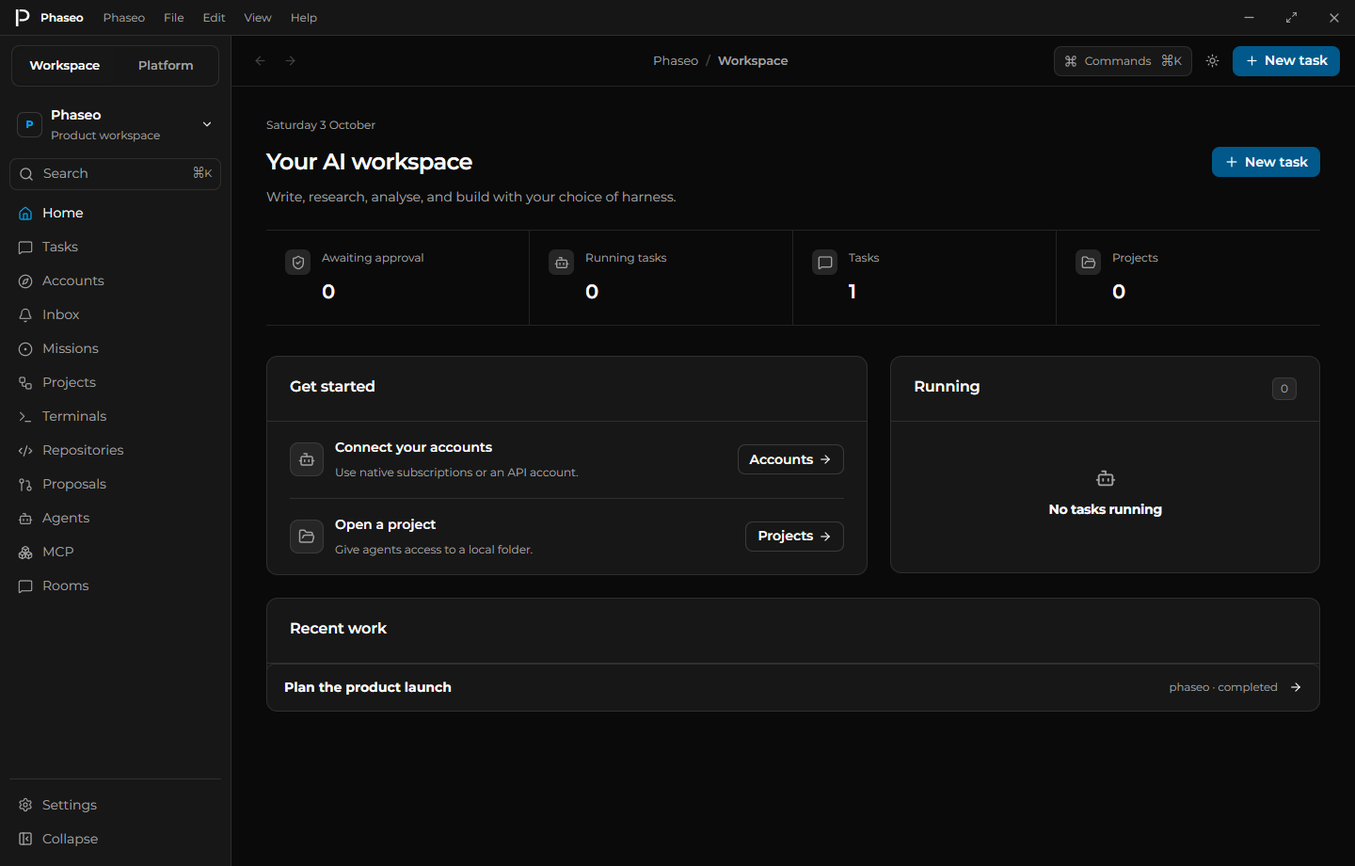
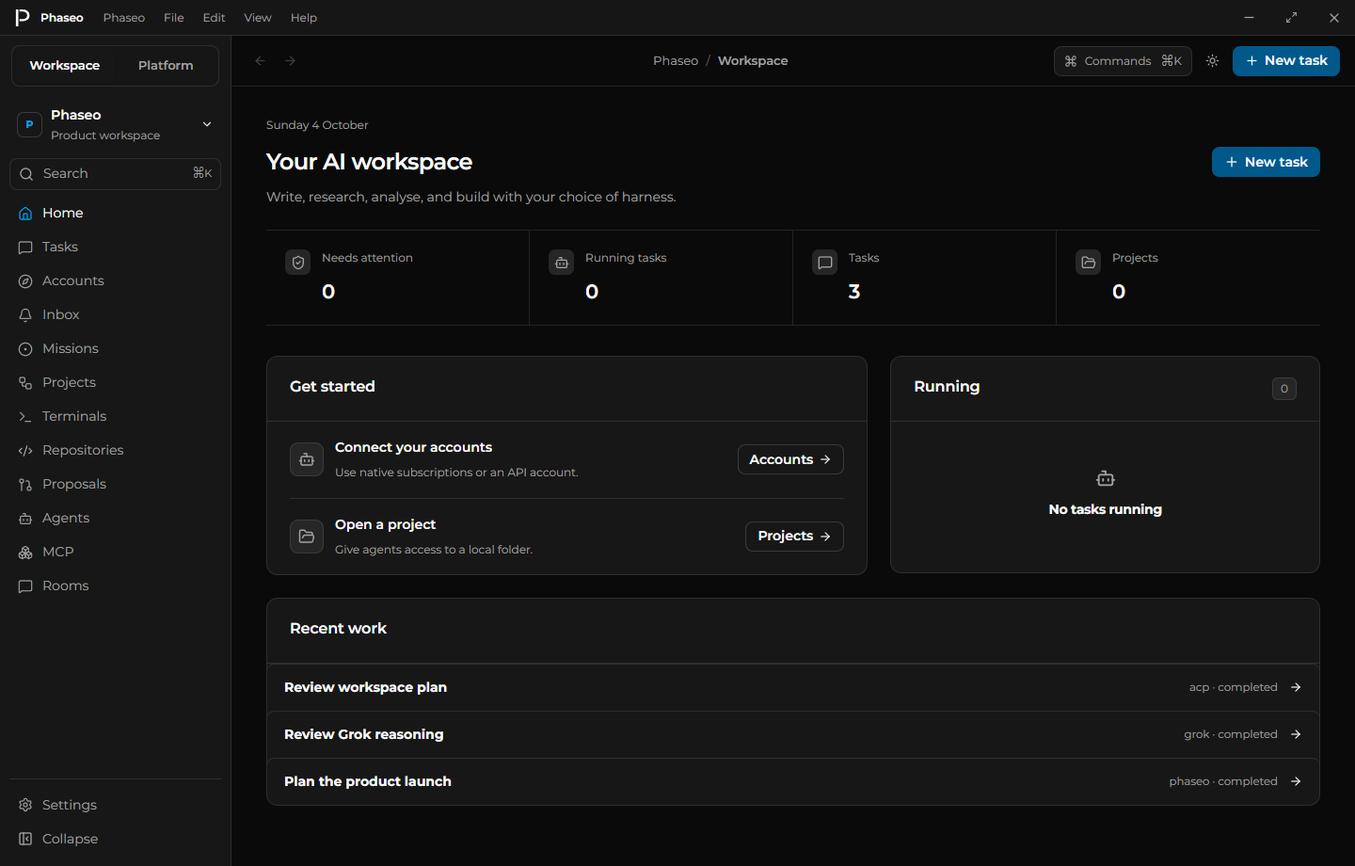
refactor(desktop): add workspace metadata snapshots

diff --git a/apps/desktop/src/renderer/views/WorkspaceHome.tsx b/apps/desktop/src/renderer/views/WorkspaceHome.tsx
@@ -1,30 +1,29 @@
 import { useEffect, useState } from "react";
 import { ArrowRight, Bot, FolderOpen, MessageSquare, Plus, ShieldCheck } from "lucide-react";
 import type { LucideIcon } from "lucide-react";
-import type { Workspace } from "../../shared/workspace";
-import { emptyWorkspace } from "../../shared/workspace";
+import { emptyOverview, type WorkspaceOverview } from "../../shared/workspaceOverview";
 
 export function WorkspaceHome({ onNavigate }: { onNavigate: (page: string, taskId?: string) => void }) {
-	const [workspace, setWorkspace] = useState<Workspace>(emptyWorkspace);
+	const [workspace, setWorkspace] = useState<WorkspaceOverview>(emptyOverview);
 	const [error, setError] = useState("");
 	const api = window.phaseoDesktop?.workspace;
 	useEffect(() => {
 		if (!api) return;
 		let active = true;
-		void api.get().then(value => { if (active) setWorkspace(value); }, reason => { if (active) setError(String(reason)); });
-		const unsubscribe = api.onChange(setWorkspace);
+		void api.overview().then(value => { if (active) setWorkspace(value); }, reason => { if (active) setError(String(reason)); });
+		const unsubscribe = api.onOverviewChange(setWorkspace);
 		return () => { active = false; unsubscribe(); };
 	}, [api]);
 	const tasks = workspace.tasks.filter(task => !task.archived);
-	const waiting = tasks.filter(task => task.status === "waiting");
+	const waiting = tasks.filter(task => task.attentionReason && task.attentionReason !== "Task completed");
 	const running = tasks.filter(task => task.status === "running");
 	return <div className="page workspace-home">
 		<section className="page-heading"><div><p className="eyebrow">{new Intl.DateTimeFormat(undefined, { weekday: "long", day: "numeric", month: "long" }).format(new Date())}</p><h1>Your AI workspace</h1><p>Write, research, analyse, and build with your choice of harness.</p></div><button className="primary-button" type="button" onClick={() => onNavigate("tasks")}><Plus size={16} /> New task</button></section>
 		{error && <p className="task-error" role="alert">{error}</p>}
-		<section className="metric-grid" aria-label="Workspace summary"><MetricCard icon={ShieldCheck} label="Awaiting approval" value={waiting.length} /><MetricCard icon={Bot} label="Running tasks" value={running.length} /><MetricCard icon={MessageSquare} label="Tasks" value={tasks.length} /><MetricCard icon={FolderOpen} label="Projects" value={workspace.projects.filter(project => !project.worktree?.removedAt).length} /></section>
+		<section className="metric-grid" aria-label="Workspace summary"><MetricCard icon={ShieldCheck} label="Needs attention" value={waiting.length} /><MetricCard icon={Bot} label="Running tasks" value={running.length} /><MetricCard icon={MessageSquare} label="Tasks" value={tasks.length} /><MetricCard icon={FolderOpen} label="Projects" value={workspace.projects.filter(project => !project.worktree?.removedAt).length} /></section>
 		<div className="workspace-grid">
 			<section className="panel attention-panel"><div className="panel-heading"><h2>{waiting.length ? "Needs your attention" : "Get started"}</h2></div><div className="attention-list">
-				{waiting.length ? waiting.map(task => <article className="attention-item" key={task.id}><div className="attention-icon"><ShieldCheck size={18} /></div><div><h3>{task.title}</h3><p>{task.questions?.length ? "Answer needed" : task.approvals?.[0]?.method}</p></div><button className="secondary-button" type="button" onClick={() => onNavigate("tasks", task.id)}>Review <ArrowRight size={14} /></button></article>) : <>
+				{waiting.length ? waiting.map(task => <article className="attention-item" key={task.id}><div className="attention-icon"><ShieldCheck size={18} /></div><div><h3>{task.title}</h3><p>{task.attentionReason}</p></div><button className="secondary-button" type="button" onClick={() => onNavigate("tasks", task.id)}>Review <ArrowRight size={14} /></button></article>) : <>
 					<article className="attention-item"><div className="attention-icon"><Bot size={18} /></div><div><h3>Connect your accounts</h3><p>Use native subscriptions or an API account.</p></div><button className="secondary-button" type="button" onClick={() => onNavigate("accounts")}>Accounts <ArrowRight size={14} /></button></article>
 					<article className="attention-item"><div className="attention-icon"><FolderOpen size={18} /></div><div><h3>Open a project</h3><p>Give agents access to a local folder.</p></div><button className="secondary-button" type="button" onClick={() => onNavigate("projects")}>Projects <ArrowRight size={14} /></button></article>
 				</>}

diff --git a/apps/desktop/src/renderer/views/Inbox.tsx b/apps/desktop/src/renderer/views/Inbox.tsx
@@ -1,24 +1,23 @@
 import { useEffect, useState } from "react";
 import { ArrowRight, Bell } from "lucide-react";
-import { emptyWorkspace } from "../../shared/workspace";
-import { inboxReason, needsAttention } from "../../shared/inbox";
+import { emptyOverview } from "../../shared/workspaceOverview";
 
 export function Inbox({ onOpenTask }: { onOpenTask: (id: string) => void }) {
-	const [workspace, setWorkspace] = useState(emptyWorkspace);
+	const [workspace, setWorkspace] = useState(emptyOverview);
 	const [filter, setFilter] = useState("attention");
 	const [error, setError] = useState("");
 	const api = window.phaseoDesktop?.workspace;
 	useEffect(() => {
 		if (!api) return;
 		let active = true;
-		void api.get().then(value => { if (active) setWorkspace(value); }, reason => { if (active) setError(String(reason)); });
-		const unsubscribe = api.onChange(setWorkspace);
+		void api.overview().then(value => { if (active) setWorkspace(value); }, reason => { if (active) setError(String(reason)); });
+		const unsubscribe = api.onOverviewChange(setWorkspace);
 		return () => { active = false; unsubscribe(); };
 	}, [api]);
-	const tasks = workspace.tasks.filter(task => inboxReason(task) && (filter === "all" || (filter === "attention" ? needsAttention(task) : task.inboxReadAt !== task.updatedAt))).sort((a, b) => b.updatedAt.localeCompare(a.updatedAt));
+	const tasks = workspace.tasks.filter(task => task.attentionReason && (filter === "all" || (filter === "attention" ? task.attentionReason !== "Task completed" : task.inboxReadAt !== task.updatedAt))).sort((a, b) => b.updatedAt.localeCompare(a.updatedAt));
 	return <div className="page workspace-home"><section className="page-heading"><h1>Inbox</h1><select aria-label="Inbox filter" value={filter} onChange={event => setFilter(event.target.value)}><option value="attention">Needs attention</option><option value="unread">Unread</option><option value="all">All activity</option></select></section>
 		{error && <p className="task-error" role="alert">{error}</p>}
-		<section className="panel attention-panel"><div className="attention-list">{tasks.length ? tasks.map(task => <article className="attention-item" key={task.id}><div className="attention-icon"><Bell size={18} /></div><div><h3>{task.title}</h3><p>{inboxReason(task)} · {task.harness}{task.inboxReadAt !== task.updatedAt ? " · Unread" : ""}</p></div><button className="secondary-button" type="button" onClick={() => {
+		<section className="panel attention-panel"><div className="attention-list">{tasks.length ? tasks.map(task => <article className="attention-item" key={task.id}><div className="attention-icon"><Bell size={18} /></div><div><h3>{task.title}</h3><p>{task.attentionReason} · {task.harness}{task.inboxReadAt !== task.updatedAt ? " · Unread" : ""}</p></div><button className="secondary-button" type="button" onClick={() => {
 			void api?.command({ type: "inbox-read", id: task.id, revision: task.updatedAt }).catch(reason => setError(String(reason)));
 			onOpenTask(task.id);
 		}}>Review <ArrowRight size={14} /></button></article>) : <div className="empty-state compact-empty"><Bell size={22} /><h3>{filter === "attention" ? "No tasks need attention" : "No activity here"}</h3></div>}</div></section>

diff --git a/apps/desktop/src/main/workspaceOverview.test.ts b/apps/desktop/src/main/workspaceOverview.test.ts
@@ -1,0 +1,43 @@
+import { describe, expect, it } from "vitest";
+import { WorkspaceStore } from "./workspaceStore";
+import { workspaceOverview } from "../shared/workspaceOverview";
+import { inboxReason } from "../shared/inbox";
+
+describe("workspace metadata snapshots", () => {
+	it("excludes conversation, draft, native request and activity bodies", () => {
+		const store = new WorkspaceStore(":memory:");
+		try {
+			const task = store.apply({ type: "create-task", harness: "codex", model: "default", mode: "chat" });
+			task.messages = [{ id: "message", role: "user", text: "private message", createdAt: task.createdAt }];
+			task.queue = [{ id: "draft", text: "private draft", createdAt: task.createdAt }];
+			task.steering = [{ id: "steer", text: "private steering", createdAt: task.createdAt, status: "unconfirmed" }];
+			task.approvals = [{ id: "approval", method: "private method", description: "private approval" }];
+			task.questions = [{ id: "question", questions: [{ id: "q", header: "private header", question: "private question" }] }];
+			task.activities = [{ id: "activity", type: "reasoning", title: "private title", text: "private reasoning" }];
+			task.nativeModels = [{ id: "private model", name: "private model" }]; task.nativeSessionId = "private session"; task.error = "private error";
+			store.saveTask(task);
+			const metadata = store.getOverview();
+			expect(JSON.stringify(metadata)).not.toContain("private");
+			expect(metadata.tasks[0]).toMatchObject({ id: task.id, revision: task.revision, approvalsCount: 1, answersCount: 1, steeringReviewCount: 1, attentionReason: "Approval needed" });
+			for (const field of ["messages", "queue", "steering", "approvals", "questions", "forms", "activities", "nativeModels", "nativeSessionId", "error"]) expect(metadata.tasks[0]).not.toHaveProperty(field);
+			expect(metadata).toEqual(workspaceOverview(store.get()));
+			expect(store.getTask(task.id).messages[0].text).toBe("private message");
+		} finally { store.close(); }
+	});
+	it("preserves attention priority and archive behavior without request bodies", () => {
+		const store = new WorkspaceStore(":memory:");
+		try {
+			for (const status of ["idle", "running", "waiting", "failed", "interrupted", "limited", "completed"] as const) {
+				const task = store.apply({ type: "create-task", harness: "codex", model: "default", mode: "chat" });
+				task.status = status; store.saveTask(task);
+				for (const requests of [false, true]) {
+					if (requests) task.questions = [{ id: "request", questions: [] }];
+					store.saveTask(task);
+					expect(store.getOverview().tasks.find(value => value.id === task.id)?.attentionReason).toBe(inboxReason(task));
+				}
+				task.archived = true; store.saveTask(task);
+				expect(store.getOverview().tasks.find(value => value.id === task.id)?.attentionReason).toBeUndefined();
+			}
+		} finally { store.close(); }
+	});
+});

diff --git a/apps/desktop/src/main/workspaceStore.ts b/apps/desktop/src/main/workspaceStore.ts
@@ -7,6 +7,8 @@ import { defaultPreferences, validatePreferences } from "../shared/preferences";
 import type { WorkspacePreferences } from "../shared/preferences";
 import { MissionStore } from "./missionStore";
 import { validateTaskHistoryQuery, type TaskHistoryPage } from "../shared/taskHistory";
+import type { TaskOverview, WorkspaceOverview } from "../shared/workspaceOverview";
+import { inboxReasonFromCounts } from "../shared/inbox";
 
 export class WorkspaceStore {
 	private readonly db: DatabaseSync;
@@ -56,6 +58,27 @@ export class WorkspaceStore {
 		const row = this.db.prepare("SELECT data FROM tasks WHERE id = ?").get(id);
 		if (!row) throw new Error("Task no longer exists.");
 		return JSON.parse(row.data as string) as Task;
+	}
+	getOverview(): WorkspaceOverview {
+		const rows = (table: "projects" | "accounts" | "agents" | "mcp_connections") => this.db.prepare(`SELECT data FROM ${table}`).all().map(row => JSON.parse(row.data as string));
+		const tasks = this.db.prepare(`SELECT json_object(
+			'id', id, 'title', json_extract(data, '$.title'), 'harness', json_extract(data, '$.harness'),
+			'model', json_extract(data, '$.model'), 'mode', json_extract(data, '$.mode'), 'status', json_extract(data, '$.status'),
+			'pinned', coalesce(json_extract(data, '$.pinned'), 0), 'archived', coalesce(json_extract(data, '$.archived'), 0),
+			'createdAt', json_extract(data, '$.createdAt'), 'updatedAt', json_extract(data, '$.updatedAt'), 'revision', json_extract(data, '$.revision'),
+			'projectId', json_extract(data, '$.projectId'), 'accountId', json_extract(data, '$.accountId'), 'agentId', json_extract(data, '$.agentId'),
+			'parentId', json_extract(data, '$.parentId'), 'missionId', json_extract(data, '$.missionId'), 'inboxReadAt', json_extract(data, '$.inboxReadAt'),
+			'approvalsCount', coalesce(json_array_length(data, '$.approvals'), 0),
+			'answersCount', coalesce(json_array_length(data, '$.questions'), 0) + coalesce(json_array_length(data, '$.forms'), 0),
+			'steeringReviewCount', (SELECT count(*) FROM json_each(tasks.data, '$.steering') AS item WHERE json_extract(item.value, '$.status') IN ('unconfirmed', 'rejected'))
+		) AS metadata FROM tasks ORDER BY json_extract(data, '$.updatedAt') DESC, id DESC`).all().map(row => {
+			const parsed = JSON.parse(row.metadata as string);
+			const task = Object.fromEntries(Object.entries(parsed).filter(([, value]) => value !== null)) as TaskOverview;
+			task.pinned = Boolean(task.pinned); task.archived = Boolean(task.archived);
+			task.attentionReason = inboxReasonFromCounts(task);
+			return task;
+		});
+		return { version: 1, projects: rows("projects"), accounts: rows("accounts"), agents: rows("agents"), mcpConnections: rows("mcp_connections"), tasks };
 	}
 	taskHistory(value: unknown): TaskHistoryPage {
 		const { query, archived, offset, limit } = validateTaskHistoryQuery(value);

diff --git a/apps/desktop/src/shared/workspaceOverview.ts b/apps/desktop/src/shared/workspaceOverview.ts
@@ -1,0 +1,20 @@
+import type { Task, Workspace } from "./workspace";
+import { inboxReasonFromCounts, type TaskAttention } from "./inbox";
+
+export type TaskOverview = Pick<Task, "id" | "title" | "harness" | "model" | "mode" | "status" | "pinned" | "archived" | "createdAt" | "updatedAt" | "revision" | "projectId" | "accountId" | "agentId" | "parentId" | "missionId" | "inboxReadAt"> & TaskAttention & { attentionReason?: string };
+export type WorkspaceOverview = Omit<Workspace, "tasks"> & { tasks: TaskOverview[] };
+export function emptyOverview(): WorkspaceOverview { return { version: 1, projects: [], accounts: [], agents: [], mcpConnections: [], tasks: [] }; }
+
+export function workspaceOverview(workspace: Workspace): WorkspaceOverview {
+	return { version: workspace.version, projects: workspace.projects, accounts: workspace.accounts, agents: workspace.agents, mcpConnections: workspace.mcpConnections, tasks: workspace.tasks.map(task => {
+		const metadata: TaskOverview = {
+			id: task.id, title: task.title, harness: task.harness, model: task.model, mode: task.mode, status: task.status,
+			pinned: task.pinned, archived: task.archived, createdAt: task.createdAt, updatedAt: task.updatedAt, revision: task.revision,
+			projectId: task.projectId, accountId: task.accountId, agentId: task.agentId, parentId: task.parentId, missionId: task.missionId, inboxReadAt: task.inboxReadAt,
+			approvalsCount: task.approvals?.length ?? 0, answersCount: (task.questions?.length ?? 0) + (task.forms?.length ?? 0),
+			steeringReviewCount: task.steering?.filter(value => value.status === "unconfirmed" || value.status === "rejected").length ?? 0,
+		};
+		metadata.attentionReason = inboxReasonFromCounts(metadata);
+		return metadata;
+	}).sort((a, b) => b.updatedAt.localeCompare(a.updatedAt) || (a.id < b.id ? 1 : a.id > b.id ? -1 : 0)) };
+}

diff --git a/apps/desktop/src/renderer/components/CommandPalette.tsx b/apps/desktop/src/renderer/components/CommandPalette.tsx
@@ -1,19 +1,18 @@
 import { useEffect, useRef, useState } from "react";
 import { Search, X } from "lucide-react";
-import type { Workspace } from "../../shared/workspace";
-import { emptyWorkspace } from "../../shared/workspace";
+import { emptyOverview, type WorkspaceOverview } from "../../shared/workspaceOverview";
 
 export function CommandPalette({ onClose, onNavigate, onTheme }: { onClose: () => void; onNavigate: (page: string, taskId?: string) => void; onTheme: (theme: "light" | "dark" | "system") => void }) {
 	const dialog = useRef<HTMLDialogElement>(null);
 	const [query, setQuery] = useState(""); const [selected, setSelected] = useState(0);
-	const [workspace, setWorkspace] = useState<Workspace>(emptyWorkspace); const [error, setError] = useState("");
+	const [workspace, setWorkspace] = useState<WorkspaceOverview>(emptyOverview); const [error, setError] = useState("");
 	useEffect(() => { const element = dialog.current; element?.showModal(); return () => element?.close(); }, []);
 	useEffect(() => { document.getElementById(`workspace-command-${selected}`)?.scrollIntoView({ block: "nearest" }); }, [selected, query]);
 	useEffect(() => {
 		const api = window.phaseoDesktop?.workspace; if (!api) return;
 		let active = true;
-		void api.get().then(value => { if (active) setWorkspace(value); }, reason => { if (active) setError(String(reason)); });
-		const unsubscribe = api.onChange(setWorkspace); return () => { active = false; unsubscribe(); };
+		void api.overview().then(value => { if (active) setWorkspace(value); }, reason => { if (active) setError(String(reason)); });
+		const unsubscribe = api.onOverviewChange(setWorkspace); return () => { active = false; unsubscribe(); };
 	}, []);
 	const commands = [
 		{ id: "new", title: "New task", detail: "Create", action: () => onNavigate("tasks") },

diff --git a/apps/desktop/src/main/index.ts b/apps/desktop/src/main/index.ts
@@ -5,6 +5,7 @@ import { fileURLToPath } from "node:url";
 import type { DesktopAppAction, DesktopUpdateState, DesktopWindowAction } from "../shared/desktop";
 import { isAllowedExternalUrl } from "../shared/desktop";
 import { validateCommand } from "../shared/workspace";
+import { workspaceOverview } from "../shared/workspaceOverview";
 import { WorkspaceRuntime } from "./workspaceRuntime";
 import { resolveNativeCommand } from "./nativeProcess";
 import { resolveGrokCommand } from "./grokLaunch";
@@ -201,6 +202,10 @@ ipcMain.handle("workspace:write-document", async (event, id: unknown, filename: 
 ipcMain.handle("workspace:get", event => {
 	if (!senderWindow(event)) throw new Error("Untrusted workspace request.");
 	return workspaceRuntime.store.get();
+});
+ipcMain.handle("workspace:overview", event => {
+	if (!senderWindow(event)) throw new Error("Untrusted workspace request.");
+	return workspaceRuntime.store.getOverview();
 });
 ipcMain.handle("workspace:task-history", (event, query: unknown) => {
 	if (!senderWindow(event)) throw new Error("Untrusted workspace request.");
@@ -443,7 +448,8 @@ app.whenReady().then(() => {
 	workspaceRuntime.onChange = state => {
 		missionService.observe(state);
 		taskNotifications.update(state);
-		for (const window of BrowserWindow.getAllWindows()) window.webContents.send("workspace:changed", state);
+		const overview = workspaceOverview(state);
+		for (const window of BrowserWindow.getAllWindows()) { window.webContents.send("workspace:changed", state); window.webContents.send("workspace:overview-changed", overview); }
 	};
 	if (process.platform !== "darwin") Menu.setApplicationMenu(null);
 	createWindow();

diff --git a/apps/desktop/src/shared/inbox.ts b/apps/desktop/src/shared/inbox.ts
@@ -1,10 +1,16 @@
-import type { Task } from "./workspace";
+import type { Task, TaskStatus } from "./workspace";
+
+export type TaskAttention = { archived: boolean; status: TaskStatus; approvalsCount: number; answersCount: number; steeringReviewCount: number };
 
 export function inboxReason(task: Task): string | undefined {
+	return inboxReasonFromCounts({ archived: task.archived, status: task.status, approvalsCount: task.approvals?.length ?? 0, answersCount: (task.forms?.length ?? 0) + (task.questions?.length ?? 0), steeringReviewCount: task.steering?.filter(value => value.status === "unconfirmed" || value.status === "rejected").length ?? 0 });
+}
+
+export function inboxReasonFromCounts(task: TaskAttention): string | undefined {
 	if (task.archived) return;
-	if (task.approvals?.length) return "Approval needed";
-	if (task.forms?.length || task.questions?.length) return "Answer needed";
-	if (task.steering?.some(value => value.status === "unconfirmed" || value.status === "rejected")) return "Review pending instruction";
+	if (task.approvalsCount) return "Approval needed";
+	if (task.answersCount) return "Answer needed";
+	if (task.steeringReviewCount) return "Review pending instruction";
 	if (task.status === "waiting") return "Waiting for you";
 	if (task.status === "failed") return "Task failed";
 	if (task.status === "interrupted") return "Task interrupted";

diff --git a/apps/desktop/src/shared/workspace.ts b/apps/desktop/src/shared/workspace.ts
@@ -3,6 +3,7 @@ import type { McpCommand, McpConnection } from "./mcp";
 import type { WorkspacePreferences } from "./preferences";
 import type { Mission, MissionCommand } from "./missions";
 import type { TaskHistoryPage, TaskHistoryQuery } from "./taskHistory";
+import type { WorkspaceOverview } from "./workspaceOverview";
 export const harnesses = ["phaseo", "codex", "claude", "opencode", "pi", "cursor", "grok", "antigravity", "acp"] as const;
 export type Harness = typeof harnesses[number];
 export type TaskStatus = "idle" | "running" | "waiting" | "limited" | "failed" | "interrupted" | "completed";
@@ -72,6 +73,8 @@ export type WorkspaceCommand =
 	| { type: "queue-edit"; id: string; messageId: string; text: string }
 	| { type: "queue-move"; id: string; messageId: string; direction: "up" | "down" };
 export type WorkspaceApi = {
+	overview: () => Promise<WorkspaceOverview>;
+	onOverviewChange: (listener: (workspace: WorkspaceOverview) => void) => () => void;
 	task: (id: string) => Promise<Task>;
 	taskHistory: (query: TaskHistoryQuery) => Promise<TaskHistoryPage>;
 	missions: () => Promise<Mission[]>;

diff --git a/apps/desktop/src/preload/index.ts b/apps/desktop/src/preload/index.ts
@@ -14,6 +14,8 @@ const desktopApi: PhaseoDesktopApi = {
 		savePreferences: preferences => ipcRenderer.invoke("workspace:save-preferences", preferences),
 		onOpenTask: listener => { taskOpenListeners.add(listener); if (pendingTaskOpen) { const pending = pendingTaskOpen; pendingTaskOpen = undefined; listener(pending.id); } return () => { taskOpenListeners.delete(listener); }; },
 		get: () => ipcRenderer.invoke("workspace:get"),
+		overview: () => ipcRenderer.invoke("workspace:overview"),
+		onOverviewChange: listener => { const subscription = (_event: Electron.IpcRendererEvent, state: Parameters<typeof listener>[0]) => listener(state); ipcRenderer.on("workspace:overview-changed", subscription); return () => ipcRenderer.removeListener("workspace:overview-changed", subscription); },
 		task: id => ipcRenderer.invoke("workspace:task", id),
 		taskHistory: query => ipcRenderer.invoke("workspace:task-history", query),
 		command: command => ipcRenderer.invoke("workspace:command", command),

diff --git a/apps/desktop/WORKSPACE-PLAN.md b/apps/desktop/WORKSPACE-PLAN.md
@@ -44,6 +44,8 @@ The history workflow passes against the Windows archive, including an owned fail
 
 Selected conversations now read their full task through a validated task-by-ID IPC API. Refreshes coalesce into one in-flight read for the current selection, obsolete selection replies are ignored, and failed reads offer Retry. Task saves advance a durable revision counter from the stored record, including unchanged timestamps and stale input snapshots. The renderer uses that revision for detail refreshes. The history workflow verifies delayed replies, rapid detail changes without overlapping reads and retry recovery. Global workspace snapshots still contain full tasks; their replacement remains unfinished.
 
+A typed workspace overview now projects task metadata and attention counts directly in SQLite, excluding messages, drafts, request bodies, activities, native session IDs and model catalogs. Home, Inbox and command search read this overview and its dedicated change event. Home includes failures and other unresolved attention states rather than labeling every waiting task as an approval. Tests verify payload omission, attention priority and archive behavior; Electron checks the overview read/event and Home/Inbox navigation into full detail. Other screens still use the full workspace snapshot, and the old broadcast remains during migration.
+
 Changes are confined to the desktop app and necessary integration packages.
 Keep credentials and filesystem/process execution in the trusted runtime.
 Validate IPC inputs, project boundaries, cancellation, and durable transitions.
@@ -235,7 +237,7 @@ Agent and MCP submit/cancel actions now share a full-width action row beneath th
 
 Conversation code now uses Shiki 4.4.3, matching the website's GitHub light/dark colours. Selected common grammars load locally on demand; unsupported or oversized blocks keep plain text. React token rendering preserves inert markup, indentation, Unicode and trailing newlines. Unit tests verify exact source preservation and bounded fallback; the rendered audit verifies visible colours and clipboard feedback in both themes/window sizes. Copy feedback now survives unrelated renders and resets only when the code text/language changes.
 
-Evidence: desktop lint/typecheck/build pass; 313 deterministic tests cover protocol,
+Evidence: desktop lint/typecheck/build pass; 315 deterministic tests cover protocol,
 queue ordering, cancellation, secret storage, filesystem boundaries, stream framing,
 and SDK approval continuation. An isolated Electron smoke test verified task CRUD,
 IPC validation, renderer navigation, real PTY execution, editor saving and stale-edit

diff --git a/apps/desktop/docs/design-audit.md b/apps/desktop/docs/design-audit.md
@@ -23,6 +23,7 @@ Reviewed against the live Phaseo Models and Chat layouts and the web application
 17. **Agent and MCP forms:** place submit/cancel controls together below the fields. Keep long agent commands in an expandable, wrapped code surface; native disclosure preserves keyboard operation and the complete command. Give connection-result text its own padded section. Additional captures cover expanded commands and agent editing in both themes/window sizes.
 18. **Syntax highlighting:** use the website's Shiki GitHub light/dark colours, loading bundled grammars on demand. Code renders as React text tokens and retains exact copy formatting. Unknown languages and oversized blocks remain plain text. The JavaScript engine works within the existing renderer security policy. The audit waits for visible token colours before checking copy success/failure.
 19. **Task history:** use database-backed 50-row pages, matching controls for Load more/Retry, loading feedback and specific empty states. A separate 155-task Electron workflow checks paging, later-page selection, searches and archive switching. Stable Markdown renderer functions preserve code highlighting and copy feedback during history refreshes.
+20. **Attention summaries:** Home and Inbox use metadata without conversation/request bodies. Home labels the count Needs attention and includes failures, interrupted work, limits and unresolved requests. Rendered history checks verify a failed task appears on both screens and opens its full conversation. Command search uses the same metadata snapshot.
 
 The sidebar now scrolls independently while Settings and Collapse remain accessible. Application menus align to the selected trigger as text sizes change. The desktop uses the web logo rather than an invented mark.
 
